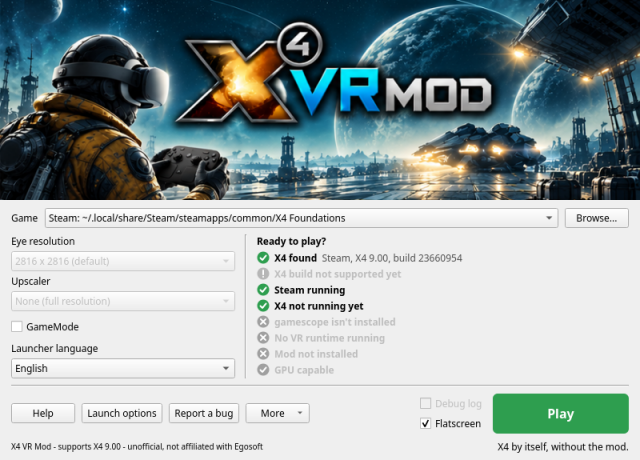
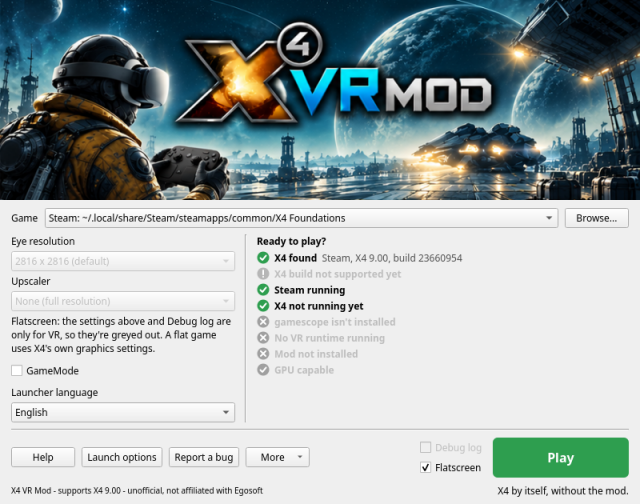
The Flatscreen note says it plainly, and names DLSS only where there is DLSS
Ticked, Flatscreen's note said "choose DLSS in X4's graphics settings" on
every computer: an instruction, and on a card without DLSS (Patola's
Radeon) one more thing to wonder about. It now says the settings above
and Debug log are only for VR, so they're greyed out, and that a flat game
uses X4's own graphics settings; with the GPU row saying DLSS, the
condition that offers it in the upscaler list, it adds that DLSS can be
turned on there. Translated in the four languages with each one's words
for Flatscreen and Debug log; the help's picture of it is new in every
language (it predated the note).

diff --git a/tests/launcher_gui.cpp b/tests/launcher_gui.cpp
@@ -250,14 +250,27 @@ static void test_play(Window &w, const QString &shots) {
     check(!w.findChild<QToolButton *>("start-vr")->isVisibleTo(&w), "...the VR row offers nothing");
     check(!debug->isEnabled() && !w.findChild<QComboBox *>("eye")->isEnabled(),
           "...and Debug log and the VR settings grey out");
-    // ...and say why, or a greyed "DLSS Auto" reads as no DLSS (the RTX 5090 player).
+    // ...and say why, or a greyed "DLSS Auto" reads as no DLSS (the RTX 5090 player). DLSS
+    // is named only on a card that has it (Patola's Radeon, 2026-11-19).
     auto *renders = w.findChild<QLabel *>("renders");
-    check(renders && renders->isVisibleTo(&w) && renders->text().contains("mod's VR settings") &&
-              renders->text().contains("X4's graphics settings") &&
-              renders->text().contains("debug log"),
-          "...and say why: the mod's VR settings and its debug log, DLSS in X4's own settings");
+    check(renders && renders->isVisibleTo(&w) && renders->text().contains("only for VR") &&
+              renders->text().contains("X4's own graphics settings") &&
+              renders->text().contains("Debug log"),
+          "...and say why: the settings above and Debug log are only for VR, X4 has its own");
+    check(!renders->text().contains("DLSS"), "...naming no DLSS on a Radeon");
+    {
+        auto rtx = modless;
+        Check rtxRow = row("gpu", Status::Ok, "GPU capable", "NVIDIA GeForce RTX 3070, Vulkan 1.4, DLSS available");
+        rtxRow.dlss = true;
+        replace(rtx, rtxRow);
+        w.showChecks(rtx);
+        check(renders->text().contains("you can also turn on DLSS"),
+              "...and on an RTX card, that DLSS is in X4's own settings");
+        w.showChecks(modless);
+        check(!renders->text().contains("DLSS"), "...gone again with the Radeon");
+    }
     flat->setChecked(false);
-    check(!renders->text().contains("mod's VR settings"), "...unticked, the VR notes come back");
+    check(!renders->text().contains("only for VR"), "...unticked, the VR notes come back");
     flat->setChecked(true);
     debug->setChecked(true);
     w.play();

diff --git a/launcher/gui/window.cpp b/launcher/gui/window.cpp
@@ -565,11 +565,15 @@ void Window::syncSettings() {
         lines << q(en);
     // Flatscreen greys these out: they're the mod's VR settings, and a flat game runs
     // nothing of the mod's. Say so, or "DLSS" greyed reads as "no DLSS" (the RTX 5090
-    // player, 2026-11-18).
+    // player, 2026-11-18). DLSS is named only where it's on the list above: on a card
+    // without it, the name was one more thing to wonder about (Patola's Radeon, 2026-11-19).
     if (m_flat && m_flat->isChecked())
-        lines = QStringList{qtr("Flatscreen: these are the mod's VR settings, and so is the debug "
-                                "log. A flat game uses X4's own: choose DLSS in X4's graphics "
-                                "settings.")};
+        lines = QStringList{
+            m_rtx ? qtr("Flatscreen: the settings above and Debug log are only for VR, so they're "
+                        "greyed out. A flat game uses X4's own graphics settings, where you can "
+                        "also turn on DLSS.")
+                  : qtr("Flatscreen: the settings above and Debug log are only for VR, so they're "
+                        "greyed out. A flat game uses X4's own graphics settings.")};
     m_renders->setText(lines.join(' '));
     m_renders->setVisible(!lines.isEmpty());
 
